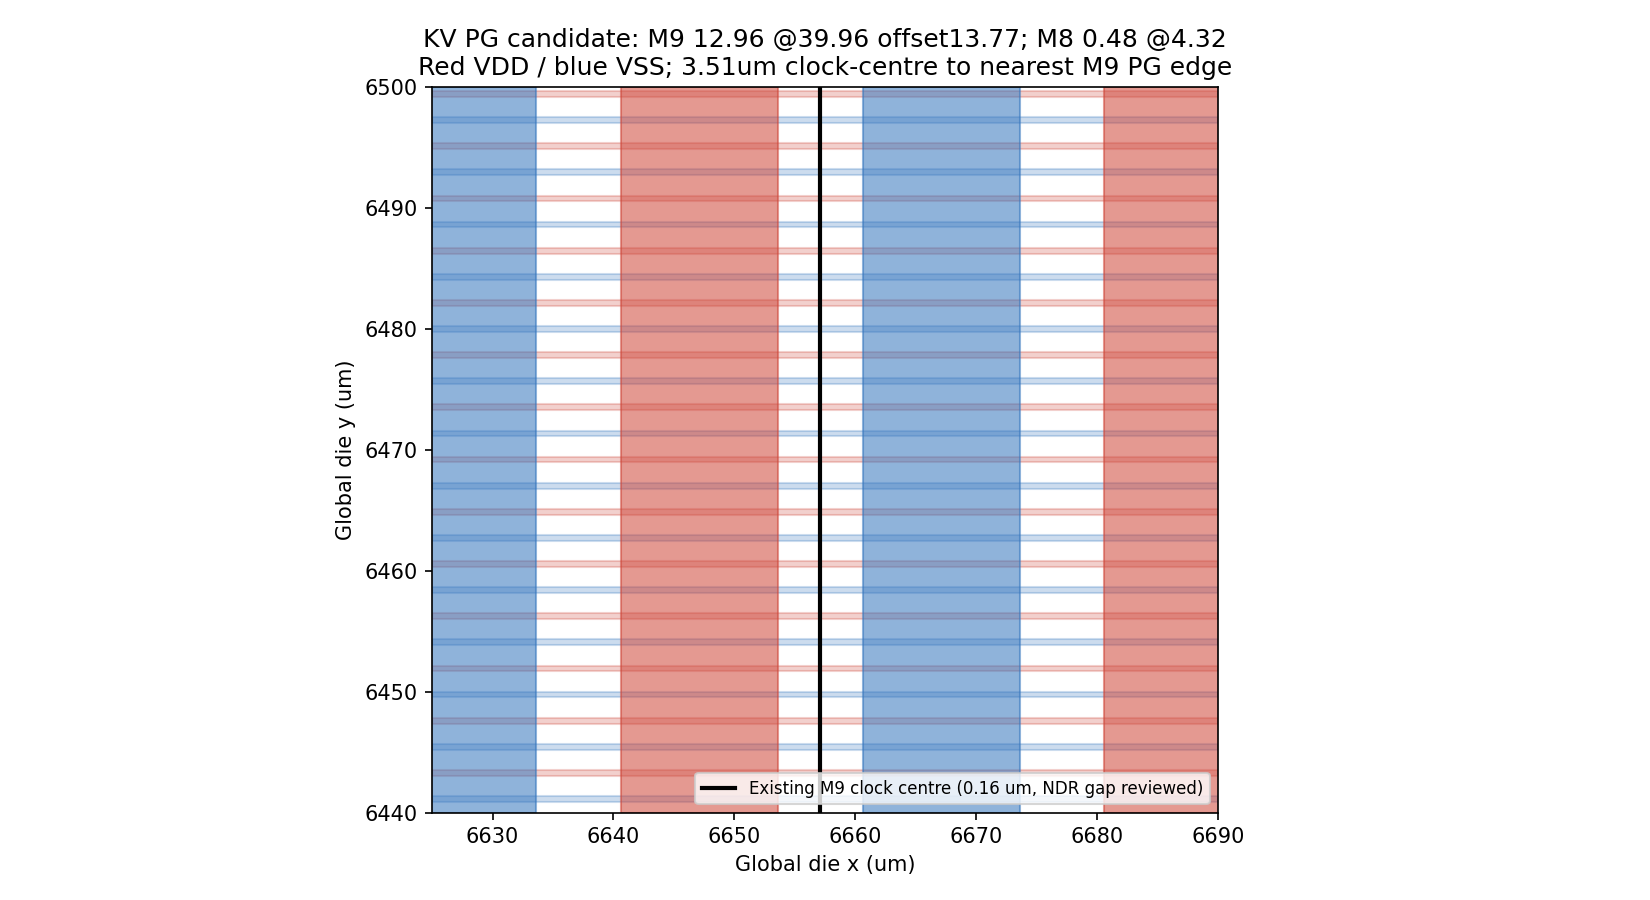
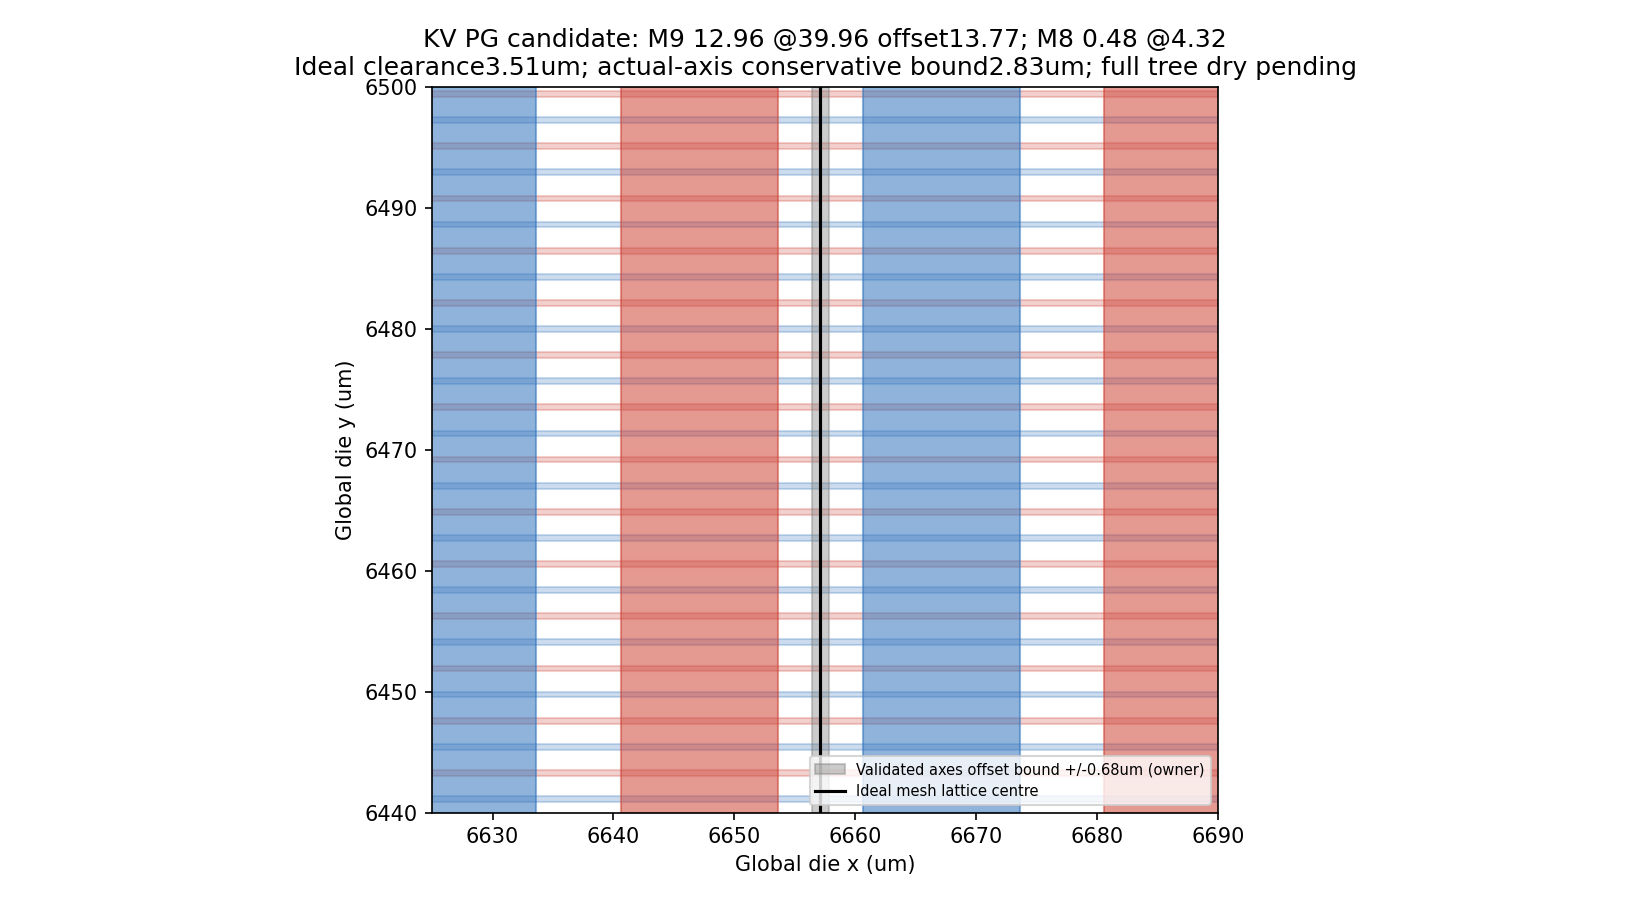
Collect failed light-M8 solve and distinguish actual versus ideal clock clearance
Actual existing two-net CSV collector returns FAIL48.918mV including inherited below-M7; source solver remains live. Candidate directories fail closed against overwrite.

Changed region(s): [[0.1855, 0.0622, 0.8345, 0.9022]]

diff --git a/tools/pg_activity/collect_commensurate.py b/tools/pg_activity/collect_commensurate.py
@@ -1,0 +1,62 @@
+#!/usr/bin/env python3
+"""Collect an actual completed two-net canonical PG coupon without rerunning it."""
+import argparse
+import csv
+import json
+from pathlib import Path
+import re
+
+ap = argparse.ArgumentParser(description=__doc__)
+ap.add_argument('kit', type=Path)
+ap.add_argument('--out', type=Path)
+a = ap.parse_args()
+m = json.loads((a.kit/'irwin.json').read_text())
+log = (a.kit/'psm/psm.log').read_text()
+errors = []
+if not re.search(r'^EXIT 0$', log, re.M):
+    errors.append('missing terminal EXIT 0')
+for net in ('VDD', 'VSS'):
+    for tag in ('OT_PG_CHECK_OK', 'OT_PSM_OK'):
+        if not re.search(rf'^{tag} {net}$', log, re.M):
+            errors.append(f'missing {tag} {net}')
+if re.search(r'OT_PG_CHECK_FAIL|OT_PSM_FAIL|\[ERROR', log):
+    errors.append('explicit PG/solver error in log')
+if not re.search(r'^OT_BUMPS .*pad_fallback 0\b', log, re.M):
+    errors.append('missing actual finite pad-source geometry / fallback0')
+values = {}
+for net in ('VDD', 'VSS'):
+    rows = list(csv.DictReader((a.kit/f'psm/ir_{net}.csv').open()))
+    values[net] = {r['Instance']: r for r in rows}
+    if len(rows) != len(values[net]) or len(rows) != m['load_blocks']:
+        errors.append(f'{net}: expected one supply terminal per load instance')
+if values['VDD'].keys() != values['VSS'].keys():
+    errors.append('VDD/VSS load sets differ')
+if errors:
+    raise SystemExit('; '.join(errors))
+samples = []
+for name, r in values['VDD'].items():
+    s = values['VSS'][name]
+    vd = (.7-float(r['Voltage']))*1000
+    vs = float(s['Voltage'])*1000
+    samples.append(dict(instance=name, vdd_drop_mv=vd, vss_bounce_mv=vs,
+                        sum_mv=vd+vs,
+                        global_vdd_xy_um=[float(r['X location'])+m['window_um'][0],
+                                          float(r['Y location'])+m['window_um'][1]]))
+worst = max(samples, key=lambda s:s['sum_mv'])
+total = worst['sum_mv'] + m['below_m7_mv']
+r = dict(verdict='PASS' if total <= m['ir_budget_mv'] else 'FAIL',
+         review='UNCHECKED: independent NUMBER-CHECK required before owner gate claim',
+         kit=str(a.kit.resolve()), grid=m['grid'], matched_loads=len(samples),
+         power_w=m['power_w'], window_um=m['window_um'], bump_pad_um=m['bump_pad_um'],
+         bumps=m['bumps'], co_located_worst=worst, above_m7_mv=worst['sum_mv'],
+         below_m7_mv=m['below_m7_mv'], total_mv=total, budget_mv=m['ir_budget_mv'],
+         below_m7_basis=m['below_m7_basis'],
+         vdd_separate_worst_mv=max(s['vdd_drop_mv'] for s in samples),
+         vss_separate_worst_mv=max(s['vss_bounce_mv'] for s in samples),
+         co_location='same physical43um load instance, its distinct VDD/VSS PG terminals',
+         no_plan_adoption=True)
+print(json.dumps(r, indent=2))
+if a.out:
+    with a.out.open('x') as f:
+        f.write(json.dumps(r, indent=2)+'\n')
+raise SystemExit(int(r['verdict'] != 'PASS'))

diff --git a/tools/pg_activity/kv_commensurate.py b/tools/pg_activity/kv_commensurate.py
@@ -43,7 +43,8 @@ def main():
     import schema as S
     raw = json.loads(args.plan.read_text())
     raw['die']['pg'].pop('domains', None)
-    args.out.mkdir(parents=True, exist_ok=True)
+    # A coupon directory is immutable once generated or submitted.
+    args.out.mkdir(parents=True, exist_ok=False)
     nd = args.out / 'plan_nodomains.json'
     nd.write_text(json.dumps(raw))
     plan = S.Plan(S.load(str(nd)), nd)
@@ -89,6 +90,9 @@ def main():
                 tracks=G.tracks_of(plan, grid), stripe_phase=phases,
                 clock_columns_um=[583.2 + 319.68*k for k in range(32)],
                 clock_centre_to_pg_edge_um=round(min(distances)-args.width9/2, 6),
+                clock_phase_basis='ideal583.2+319.68k lattice; actual validated driver axes may differ by up to0.68um',
+                actual_axis_offset_bound_um=.68,
+                actual_axis_to_pg_edge_lower_bound_um=round(min(distances)-args.width9/2-.68, 6),
                 below_m7_mv=6.05,
                 below_m7_basis='PG-ACTIVITY-KVHBM e1 slice; inherited conservative full-power result, not a new measurement',
                 scope='canonical 150um bumps/70um pads, co-located VDD drop + VSS bounce, measured type map; independent grid candidate, no plan adoption')

diff --git a/results/codex_kv_pg_1351/README.md b/results/codex_kv_pg_1351/README.md
@@ -13,7 +13,7 @@ controls pass; crop-reset and wrong-first-net mutants are caught.
 
 Candidate: M8 0.48@4.32 offset2.16; M9 12.96@39.96 offset13.77.
 Fixed clock x=583.2+319.68k is exactly midway between alternate M9 supply
-straps, leaving3.51um centre-to-PG-edge. `pg_clock_phase.png` was viewed:
+straps, leaving3.51um IDEAL centre-to-PG-edge. Actual validated driver axes differ by up to0.68um, giving a conservative2.83um lower bound; only the KV owner full-tree dry result can qualify those shapes. `pg_clock_phase.png` was viewed:
 straight-column clearance is plausible; full H-tree/mesh dry validation remains
 with the KV owner. No routing or STA was launched by this experiment.
 
